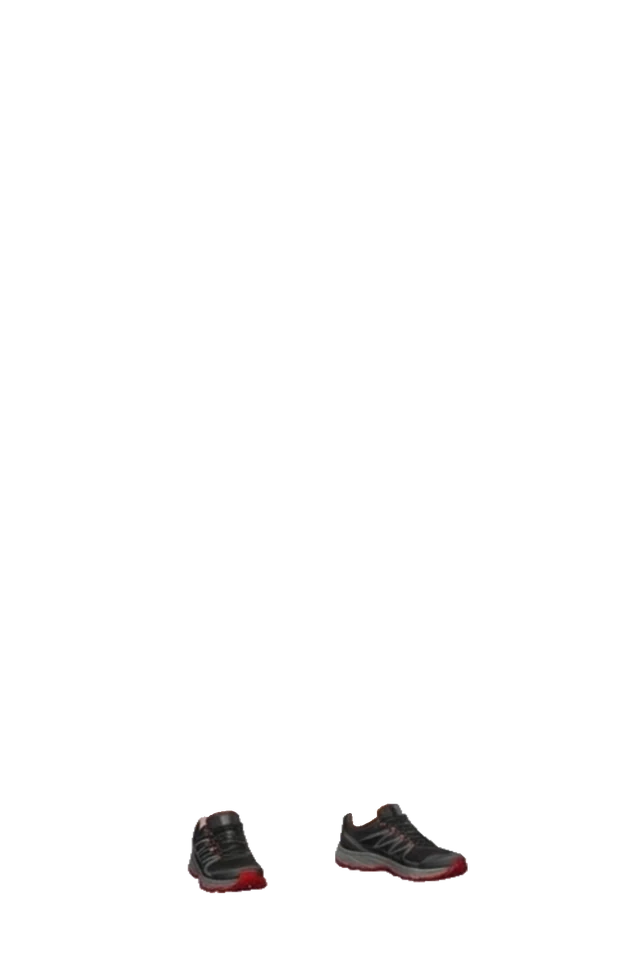
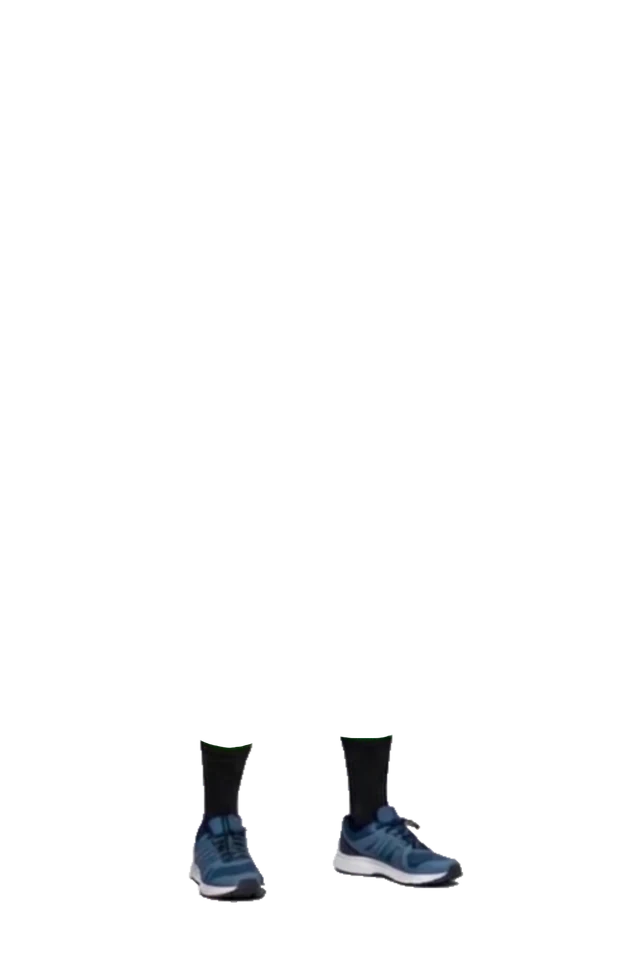
Equipment art: new shoes and shop pictures, backpacks for men and women
- The new shoe uploads replace lvl1_shoes_01, lvl2_shoes_01, lvl2_shoes_02 and lvl3_shoes_01;
  the starting shoes use lvl0_shoes_01 (lvl1_shoes_02 is prepared for a future item).
- Shop pictures from assets/ui/thumbnails for the starting, trail and light shoes, poles,
  backpacks and gels & bars.
- {sex} in the equipment table's thumbnail and avatar_layer picks the men or women file (the men
  file while there is no women one): level 1 and 2 backpacks now follow the runner's body.

Claude-Session: https://claude.ai/code/session_016f94ymQfSfnRFVe9Tr5tgS

Changed region(s): [[0.5, 0.75, 0.75, 0.9375], [0.2812, 0.75, 0.4375, 0.9375]]

diff --git a/supabase/functions/career-ops/index.js b/supabase/functions/career-ops/index.js
@@ -437,21 +437,21 @@ function applyFitnessDecay(state, now) {
 // raw:src/data/equipment.csv
 var equipment_default = `# Equipment (owner table, 3 November 2026). One row per item. Keep each id once and never rename it (saves use it).
 # type: shoes, pack, poles, nutrition (gels and bars together), or gel / bar (one kind). level: empty for none. price: coins (of one pack for gel/bar); empty = not for sale.
-# pack: units per pack (nutrition: that many gels and that many bars). thumbnail: file in assets/ui/thumbnails (thumb_*.png, 512 x 512) or assets/ui/equipment (empty = the game's own picture).
+# pack: units per pack (nutrition: that many gels and that many bars). {sex} in thumbnail or avatar_layer = men or women, by the runner (the men file when there is no women one). thumbnail: file in assets/ui/thumbnails (thumb_*.png, 512 x 512) or assets/ui/equipment (empty = the game's own picture).
 # avatar_layer: file in assets/runner/avatar shown on the runner, e.g. footwear/trail-shoes.webp (empty = none, or the drawn poles/backpack).
 # speed\u2026consistency: race-only attribute bonuses. flat, climb, descent, technical_penalty, wear: time multipliers (empty = 1; 0.9 = 10% less, 1.01 = 1% more).
 # effect_text: leave empty to have it written from the bonuses.
 # name_es, effect_text_es, description_es (and _fr, _it, _de): the texts in Spanish, French, Italian and German. Empty = English; an empty effect text is written from the bonuses.
 id,name,type,level,price,pack,thumbnail,avatar_layer,speed,endurance,climbing,technical,recovery,consistency,flat,climb,descent,technical_penalty,wear,effect_text,description,name_es,effect_text_es,description_es,name_fr,effect_text_fr,description_fr,name_it,effect_text_it,description_it,name_de,effect_text_de,description_de
-starter-shoes,Starter shoes,shoes,,0,,,footwear/starter-shoes.webp,,,,,,,,,,,,,Basic trail-running shoes. Starting equipment.,Zapatillas b\xE1sicas,,Zapatillas de trail b\xE1sicas. Equipo inicial.,Chaussures de base,,Chaussures de trail basiques. \xC9quipement de d\xE9part.,Scarpe base,,Scarpe da trail base. Attrezzatura iniziale.,Einsteigerschuhe,,Einfache Trailschuhe. Startausr\xFCstung.
-trail-shoes-basic,Trail shoes,shoes,1,35,,,footwear/trail-shoes-basic.webp,1,,,1,,,,,,,,,A small all-round upgrade on the starter shoes.,Zapatillas de trail,,Una peque\xF1a mejora general respecto a las b\xE1sicas.,Chaussures de trail,,Une petite am\xE9lioration polyvalente par rapport aux chaussures de base.,Scarpe da trail,,Un piccolo miglioramento generale rispetto alle scarpe base.,Trailschuhe,,Ein kleines Allround-Upgrade gegen\xFCber den Einsteigerschuhen.
+starter-shoes,Starter shoes,shoes,,0,,thumb_lvl0_shoes_01.png,footwear/starter-shoes.webp,,,,,,,,,,,,,Basic trail-running shoes. Starting equipment.,Zapatillas b\xE1sicas,,Zapatillas de trail b\xE1sicas. Equipo inicial.,Chaussures de base,,Chaussures de trail basiques. \xC9quipement de d\xE9part.,Scarpe base,,Scarpe da trail base. Attrezzatura iniziale.,Einsteigerschuhe,,Einfache Trailschuhe. Startausr\xFCstung.
+trail-shoes-basic,Trail shoes,shoes,1,35,,thumb_lvl1_shoes_01.png,footwear/trail-shoes-basic.webp,1,,,1,,,,,,,,,A small all-round upgrade on the starter shoes.,Zapatillas de trail,,Una peque\xF1a mejora general respecto a las b\xE1sicas.,Chaussures de trail,,Une petite am\xE9lioration polyvalente par rapport aux chaussures de base.,Scarpe da trail,,Un piccolo miglioramento generale rispetto alle scarpe base.,Trailschuhe,,Ein kleines Allround-Upgrade gegen\xFCber den Einsteigerschuhen.
 trail-shoes,Technical trail shoes,shoes,2,70,,,footwear/trail-shoes.webp,,,,4,,,,,,0.7,,,Grippy shoes for rocky and technical ground.,Zapatillas t\xE9cnicas,,Zapatillas con mucho agarre para terreno rocoso y t\xE9cnico.,Chaussures techniques,,Chaussures accrocheuses pour terrain rocheux et technique.,Scarpe tecniche,,Scarpe con molto grip per terreno roccioso e tecnico.,Technische Trailschuhe,,"Griffige Schuhe f\xFCr felsiges, technisches Gel\xE4nde."
-trail-shoes-light,Light trail shoes,shoes,2,70,,,footwear/trail-shoes-light.webp,3,,,,,,,,0.98,1.3,,,"Fast on flats and descents, with less grip on technical ground.",Zapatillas ligeras,,"R\xE1pidas en llano y en bajada, con menos agarre en terreno t\xE9cnico.",Chaussures l\xE9g\xE8res,,"Rapides sur le plat et en descente, moins d'adh\xE9rence en terrain technique.",Scarpe leggere,,"Veloci in pianura e in discesa, con meno grip sul terreno tecnico.",Leichte Trailschuhe,,"Schnell auf flachen St\xFCcken und bergab, mit weniger Grip im technischen Gel\xE4nde."
-poles,Poles,poles,1,25,,lvl1_poles_01.webp,accessories/lvl1_poles_01.webp,,,2,,,,1.01,,,,,,Folding poles that help on climbs.,Bastones,,Bastones plegables que ayudan en las subidas.,B\xE2tons,,B\xE2tons pliables qui aident dans les mont\xE9es.,Bastoncini,,Bastoncini pieghevoli che aiutano in salita.,St\xF6cke,,"Faltbare St\xF6cke, die am Anstieg helfen."
+trail-shoes-light,Light trail shoes,shoes,2,70,,thumb_lvl2_shoes_02.png,footwear/trail-shoes-light.webp,3,,,,,,,,0.98,1.3,,,"Fast on flats and descents, with less grip on technical ground.",Zapatillas ligeras,,"R\xE1pidas en llano y en bajada, con menos agarre en terreno t\xE9cnico.",Chaussures l\xE9g\xE8res,,"Rapides sur le plat et en descente, moins d'adh\xE9rence en terrain technique.",Scarpe leggere,,"Veloci in pianura e in discesa, con meno grip sul terreno tecnico.",Leichte Trailschuhe,,"Schnell auf flachen St\xFCcken und bergab, mit weniger Grip im technischen Gel\xE4nde."
+poles,Poles,poles,1,25,,thumb_lvl1_poles_01.png,accessories/lvl1_poles_01.webp,,,2,,,,1.01,,,,,,Folding poles that help on climbs.,Bastones,,Bastones plegables que ayudan en las subidas.,B\xE2tons,,B\xE2tons pliables qui aident dans les mont\xE9es.,Bastoncini,,Bastoncini pieghevoli che aiutano in salita.,St\xF6cke,,"Faltbare St\xF6cke, die am Anstieg helfen."
 poles-2,Poles,poles,2,50,,,,,1,3,,,,1.01,,,,,,Light carbon poles.,Bastones,,Bastones ligeros de carbono.,B\xE2tons,,B\xE2tons l\xE9gers en carbone.,Bastoncini,,Bastoncini leggeri in carbonio.,St\xF6cke,,Leichte Carbonst\xF6cke.
-hydration-backpack,Hydration backpack,pack,1,30,,lvl1_back_01.webp,accessories/lvl1_back_01.webp,,1,,,,,,,,,0.9,,Carries water and food for long races.,Mochila de hidrataci\xF3n,,Lleva agua y comida para carreras largas.,Sac d'hydratation,,Transporte eau et nourriture pour les courses longues.,Zaino idratazione,,Porta acqua e cibo per le gare lunghe.,Trinkrucksack,,Tr\xE4gt Wasser und Essen f\xFCr lange Rennen.
-hydration-backpack-2,Hydration backpack,pack,2,90,,lvl3_back_01.webp,accessories/lvl3_back_01.webp,,2,,,,,,,,,0.85,,"A larger, better-fitting race vest.",Mochila de hidrataci\xF3n,,Un chaleco de carrera m\xE1s grande y que se ajusta mejor.,Sac d'hydratation,,Un gilet de course plus grand et mieux ajust\xE9.,Zaino idratazione,,Un gilet da gara pi\xF9 grande e pi\xF9 aderente.,Trinkrucksack,,"Eine gr\xF6\xDFere, besser sitzende Laufweste."
-gels-and-bars,Gels & bars,nutrition,,5,3,lvl1_gels_01.webp,,,,,,,,,,,,,"Gel: 1.5% faster; cereal bar: 1.5% less fatigue, for the whole race. A race uses one of each.",3 energy gels and 3 cereal bars. One of each is enough for a whole race.,Geles y barritas,"Gel: 1,5 % m\xE1s r\xE1pido; barrita: 1,5 % menos fatiga, toda la carrera. Cada carrera usa uno de cada.",3 geles energ\xE9ticos y 3 barritas de cereales. Con uno de cada basta para toda una carrera.,Gels et barres,"Gel : 1,5 % plus rapide ; barre : 1,5 % de fatigue en moins, toute la course. Une course en utilise un de chaque.",3 gels \xE9nerg\xE9tiques et 3 barres de c\xE9r\xE9ales. Un de chaque suffit pour toute une course.,Gel e barrette,"Gel: 1,5% pi\xF9 veloce; barretta: 1,5% di fatica in meno, per tutta la gara. Ogni gara ne usa uno di ciascuno.",3 gel energetici e 3 barrette ai cereali. Uno di ciascuno basta per tutta la gara.,Gels & Riegel,"Gel: 1,5 % schneller; Riegel: 1,5 % weniger Erm\xFCdung, im ganzen Rennen. Ein Rennen verbraucht je eins.",3 Energiegels und 3 M\xFCsliriegel. Je eins reicht f\xFCr ein ganzes Rennen.
+hydration-backpack,Hydration backpack,pack,1,30,,thumb_lvl1_{sex}_back_01.png,accessories/lvl1_{sex}_back_01.webp,,1,,,,,,,,,0.9,,Carries water and food for long races.,Mochila de hidrataci\xF3n,,Lleva agua y comida para carreras largas.,Sac d'hydratation,,Transporte eau et nourriture pour les courses longues.,Zaino idratazione,,Porta acqua e cibo per le gare lunghe.,Trinkrucksack,,Tr\xE4gt Wasser und Essen f\xFCr lange Rennen.
+hydration-backpack-2,Hydration backpack,pack,2,90,,thumb_lvl2_back_01.png,accessories/lvl2_{sex}_back_01.webp,,2,,,,,,,,,0.85,,"A larger, better-fitting race vest.",Mochila de hidrataci\xF3n,,Un chaleco de carrera m\xE1s grande y que se ajusta mejor.,Sac d'hydratation,,Un gilet de course plus grand et mieux ajust\xE9.,Zaino idratazione,,Un gilet da gara pi\xF9 grande e pi\xF9 aderente.,Trinkrucksack,,"Eine gr\xF6\xDFere, besser sitzende Laufweste."
+gels-and-bars,Gels & bars,nutrition,,5,3,thumb_lvl1_gels_01.png,,,,,,,,,,,,,"Gel: 1.5% faster; cereal bar: 1.5% less fatigue, for the whole race. A race uses one of each.",3 energy gels and 3 cereal bars. One of each is enough for a whole race.,Geles y barritas,"Gel: 1,5 % m\xE1s r\xE1pido; barrita: 1,5 % menos fatiga, toda la carrera. Cada carrera usa uno de cada.",3 geles energ\xE9ticos y 3 barritas de cereales. Con uno de cada basta para toda una carrera.,Gels et barres,"Gel : 1,5 % plus rapide ; barre : 1,5 % de fatigue en moins, toute la course. Une course en utilise un de chaque.",3 gels \xE9nerg\xE9tiques et 3 barres de c\xE9r\xE9ales. Un de chaque suffit pour toute une course.,Gel e barrette,"Gel: 1,5% pi\xF9 veloce; barretta: 1,5% di fatica in meno, per tutta la gara. Ogni gara ne usa uno di ciascuno.",3 gel energetici e 3 barrette ai cereali. Uno di ciascuno basta per tutta la gara.,Gels & Riegel,"Gel: 1,5 % schneller; Riegel: 1,5 % weniger Erm\xFCdung, im ganzen Rennen. Ein Rennen verbraucht je eins.",3 Energiegels und 3 M\xFCsliriegel. Je eins reicht f\xFCr ein ganzes Rennen.
 `;
 
 // src/domain/equipment/items.ts

diff --git a/src/components/avatar/Avatar.tsx b/src/components/avatar/Avatar.tsx
@@ -125,9 +125,9 @@ function Vest({ id }: { id: string }) {
 }
 
 /** The runner layer of an equipped item, from the equipment table (avatar_layer), if it has art. */
-function layerOf(id: string): string | undefined {
+function layerOf(id: string, sex: Sex): string | undefined {
   const file = getEquipmentItem(id)?.avatarLayer
-  return file ? avatarFile(file) : undefined
+  return file ? avatarFile(file, sex) : undefined
 }
 
 function EquipmentLayer({ id, href }: { id: string; href: string }) {
@@ -148,7 +148,7 @@ export function Avatar({ sex, appearance, equipment = [], label, crop = 'full', 
     // The chosen head is drawn over the body's basic head, in the body's skin tone.
     { id: 'head', href: headArt(sex, appearance.hair, Number(appearance.skin.slice('tone-'.length))) },
     // Shoes: the art the equipment table names for each item (avatar_layer).
-    ...bySlot('shoes').map((id) => ({ id, href: layerOf(id) })),
+    ...bySlot('shoes').map((id) => ({ id, href: layerOf(id, sex) })),
     ...(shirt ? [{ id: shirt.id, href: art(`clothing/${shirt.file}`) }] : []),
   ]
   const zoomed = focus === 'face' && crop === 'full'
@@ -177,14 +177,14 @@ export function Avatar({ sex, appearance, equipment = [], label, crop = 'full', 
       <g className={styles.zoom} style={{ transform: zoomed ? FACE_TRANSFORM : 'none' }} filter={`url(#${glowId})`}>
         {/* Poles and backpacks: the table's art when it names one, otherwise the drawn ones. */}
         {bySlot('poles').map((id) =>
-          layerOf(id) ? <EquipmentLayer key={id} id={id} href={layerOf(id)!} /> : POLE_COLORS[id] && <Poles key={id} id={id} />,
+          layerOf(id, sex) ? <EquipmentLayer key={id} id={id} href={layerOf(id, sex)!} /> : POLE_COLORS[id] && <Poles key={id} id={id} />,
         )}
         {layers.map(
           (layer) =>
             layer.href && <image key={layer.id} href={layer.href} width="640" height="960" data-layer={layer.id} />,
         )}
         {bySlot('pack').map((id) =>
-          layerOf(id) ? <EquipmentLayer key={id} id={id} href={layerOf(id)!} /> : PACK_COLORS[id] && <Vest key={id} id={id} />,
+          layerOf(id, sex) ? <EquipmentLayer key={id} id={id} href={layerOf(id, sex)!} /> : PACK_COLORS[id] && <Vest key={id} id={id} />,
         )}
       </g>
     </svg>

diff --git a/src/data/tables.test.ts b/src/data/tables.test.ts
@@ -1,5 +1,5 @@
 import { describe, expect, it, vi } from 'vitest'
-import { avatarFile } from '../components/avatar/avatarArt'
+import { avatarFile, filesForSex } from '../components/avatar/avatarArt'
 import { parseLevels } from '../domain/athlete/levels'
 import { parseRaceField } from '../domain/races/raceField'
 import { parseRankingTable } from '../domain/ranking/ranking'
@@ -20,8 +20,8 @@ const { default: achievementsCsv } = await import('./achievements.csv?raw')
 const { default: rankingCsv } = await import('./ranking_points.csv?raw')
 
 const THUMBNAILS = import.meta.glob('/assets/ui/{thumbnails,equipment}/*.{webp,png,jpg,jpeg}')
-const hasThumbnail = (file: string) =>
-  `/assets/ui/thumbnails/${file}` in THUMBNAILS || `/assets/ui/equipment/${file}` in THUMBNAILS
+const hasThumbnail = (file: string, sex: 'male' | 'female') =>
+  filesForSex(file, sex).some((name) => `/assets/ui/thumbnails/${name}` in THUMBNAILS || `/assets/ui/equipment/${name}` in THUMBNAILS)
 
 /**
  * The owner's tables (src/data/*.csv, 3 November 2026) are free to change: these checks only make
@@ -48,8 +48,10 @@ describe("owner's tables", () => {
   it('equipment.csv is a valid equipment table whose files exist, with the starting shoes and gels and bars for sale', () => {
     const items = parseEquipment(equipmentCsv)
     for (const item of items) {
-      if (item.avatarLayer) expect(avatarFile(item.avatarLayer), `${item.id}: avatar_layer ${item.avatarLayer}`).toBeDefined()
-      if (item.thumbnail) expect(hasThumbnail(item.thumbnail), `${item.id}: thumbnail ${item.thumbnail}`).toBe(true)
+      for (const sex of ['male', 'female'] as const) {
+        if (item.avatarLayer) expect(avatarFile(item.avatarLayer, sex), `${item.id}: avatar_layer ${item.avatarLayer} (${sex})`).toBeDefined()
+        if (item.thumbnail) expect(hasThumbnail(item.thumbnail, sex), `${item.id}: thumbnail ${item.thumbnail} (${sex})`).toBe(true)
+      }
       if (item.price !== null) expect(item.price, item.id).toBeGreaterThanOrEqual(0)
     }
     // The starting shoes (every career owns them), and something that refills gels and bars.

diff --git a/src/features/equipment/EquipmentScreen.tsx b/src/features/equipment/EquipmentScreen.tsx
@@ -3,11 +3,12 @@ import { useEffect, useRef, useState } from 'react'
 import { Link, useSearchParams } from 'react-router'
 import { useCareer } from '../../app/game/gameContext'
 import { Avatar } from '../../components/avatar/Avatar'
+import { filesForSex } from '../../components/avatar/avatarArt'
 import { Coins } from '../../components/Coins'
 import button from '../../components/Button.module.css'
 import { Screen, ScrollPanel } from '../../components/Screen'
 import { Chips, Tabs } from '../../components/Tabs'
-import type { AttributeId } from '../../domain/athlete/athlete'
+import type { AttributeId, Sex } from '../../domain/athlete/athlete'
 import { useI18n, type Locale, type MessageKey, type Translate } from '../../i18n/i18n'
 import {
   EQUIPMENT_ITEMS,
@@ -121,15 +122,19 @@ const THUMBNAILS = import.meta.glob<string>('/assets/ui/{thumbnails,equipment}/*
   import: 'default',
 })
 
-function thumbnailUrl(file: string): string | undefined {
-  return THUMBNAILS[`/assets/ui/thumbnails/${file}`] ?? THUMBNAILS[`/assets/ui/equipment/${file}`]
+function thumbnailUrl(file: string, sex: Sex): string | undefined {
+  for (const candidate of filesForSex(file, sex)) {
+    const url = THUMBNAILS[`/assets/ui/thumbnails/${candidate}`] ?? THUMBNAILS[`/assets/ui/equipment/${candidate}`]
+    if (url) return url
+  }
+  return undefined
 }
 
 /** An item's picture: its thumbnail, the shoes on the feet, or the slot icon (also used on race day). */
 export function ItemArt({ item }: { item: EquipmentItem }) {
   const { state } = useCareer()
   const { athlete } = state
-  const thumbnail = item.thumbnail && thumbnailUrl(item.thumbnail)
+  const thumbnail = item.thumbnail && thumbnailUrl(item.thumbnail, athlete.sex)
   if (thumbnail) return <img className={styles.thumbnail} src={thumbnail} alt="" />
   if (item.slot === 'shoes') {
     return (

diff --git a/src/components/avatar/avatarArt.test.ts b/src/components/avatar/avatarArt.test.ts
@@ -1,7 +1,7 @@
 import { describe, expect, it, vi } from 'vitest'
 import { HEAD_FILES, HEADS } from '../../domain/athlete/heads'
 import { EQUIPMENT_ITEMS } from '../../domain/equipment/items'
-import { art, headArt } from './avatarArt'
+import { art, avatarFile, filesForSex, headArt } from './avatarArt'
 
 /** The prepared head files on disk. */
 const HEAD_ASSETS = Object.keys(import.meta.glob('/assets/runner/avatar/heads/*.webp'))
@@ -41,5 +41,22 @@ describe('avatar art', () => {
   it('has no art for the basic head or a missing tone', () => {
     expect(headArt('female', 'natural', 2)).toBeUndefined()
     expect(headArt('female', 'head-l2-03', 2)).toBeUndefined()
+  })
+})
+
+describe('Equipment art by sex (owner request, 5 November 2026)', () => {
+  it('{sex} names the runner’s file, with the men file as the fallback', () => {
+    expect(filesForSex('accessories/lvl1_{sex}_back_01.webp', 'female')).toEqual([
+      'accessories/lvl1_women_back_01.webp',
+      'accessories/lvl1_men_back_01.webp',
+    ])
+    expect(filesForSex('accessories/lvl1_{sex}_back_01.webp', 'male')).toEqual(['accessories/lvl1_men_back_01.webp'])
+    expect(filesForSex('footwear/trail-shoes.webp', 'female')).toEqual(['footwear/trail-shoes.webp'])
+  })
+
+  it('uses the women backpack for women and falls back to the men one while there is none', () => {
+    expect(avatarFile('accessories/lvl1_{sex}_back_01.webp', 'female')).toContain('lvl1_women_back_01')
+    expect(avatarFile('accessories/lvl1_{sex}_back_01.webp', 'male')).toContain('lvl1_men_back_01')
+    expect(avatarFile('accessories/lvl2_{sex}_back_01.webp', 'female')).toContain('lvl2_men_back_01')
   })
 })

diff --git a/src/components/avatar/avatarArt.ts b/src/components/avatar/avatarArt.ts
@@ -23,7 +23,23 @@ export function headArt(sex: Sex, hair: string, tone: number): string | undefine
   return file === undefined ? undefined : art(`heads/${file}`)
 }
 
+/**
+ * The files an equipment table entry names for a runner (owner request, 5 November 2026: backpacks
+ * drawn for men and for women): `{sex}` stands for `men` or `women`, and the men file is the
+ * fallback while there is no women one. A name without `{sex}` is the same for everyone.
+ */
+export function filesForSex(file: string, sex: Sex): string[] {
+  if (!file.includes('{sex}')) return [file]
+  const own = file.replaceAll('{sex}', sex === 'female' ? 'women' : 'men')
+  const men = file.replaceAll('{sex}', 'men')
+  return own === men ? [men] : [own, men]
+}
+
 /** The bundled URL of a file in assets/runner/avatar named by the equipment table, e.g. `footwear/trail-shoes.webp`. */
-export function avatarFile(file: string): string | undefined {
-  return ART[`/assets/runner/avatar/${file}`]
+export function avatarFile(file: string, sex: Sex = 'male'): string | undefined {
+  for (const candidate of filesForSex(file, sex)) {
+    const url = ART[`/assets/runner/avatar/${candidate}`]
+    if (url) return url
+  }
+  return undefined
 }

diff --git a/scripts/prepare_avatar_art.py b/scripts/prepare_avatar_art.py
@@ -49,10 +49,12 @@ QUALITY = 88
 BODY_NAME = re.compile(r"^(men|women)_body_01_tone(\d)\.png$")
 HEAD_NAME = re.compile(r"^lvl(\d+)_(men|women)_head_(\d{2})_tone(\d)\.png$")
 SHIRT_NAME = re.compile(r"^lvl(\d+)_(men|women)_shirt_(\d{2})\.png$")
-# Shoe art by equipment item id (owner decision, 31 October 2026). lvl3_shoes_01 has no shop item
-# yet; it is prepared so it is ready when one is added.
+# Shoe art by equipment item id (owner decision, 31 October 2026; new art 5 November 2026: the
+# starting shoes are lvl0_shoes_01). lvl1_shoes_02 and lvl3_shoes_01 have no shop item yet; they
+# are prepared so they are ready when one is added.
 FOOTWEAR = {
-    "starter-shoes": "footwear/starter_shoes_01.png",
+    "starter-shoes": "footwear/lvl0_shoes_01.png",
+    "lvl1-shoes-02": "footwear/lvl1_shoes_02.png",
     "trail-shoes-basic": "footwear/lvl1_shoes_01.png",
     "trail-shoes": "footwear/lvl2_shoes_01.png",
     "trail-shoes-light": "footwear/lvl2_shoes_02.png",

diff --git a/assets/ui/thumbnails/README.md b/assets/ui/thumbnails/README.md
@@ -4,7 +4,8 @@ One picture per equipment item, shown on its shop and equipment cards (owner req
 
 - **Size:** 512 × 512 px, square. **Format:** PNG with a transparent background, ideally under 300 KB.
 - **Framing:** the item centred with a 5–10 % margin on each side, no shadow or background (the card has its own).
-- **Name:** `thumb_` + the name of the item's art, e.g. `thumb_lvl2_back_01.png`.
+- **Name:** `thumb_` + the name of the item's art, e.g. `thumb_lvl2_back_01.png`. For a picture per body:
+  `thumb_lvl1_men_back_01.png` and `thumb_lvl1_women_back_01.png`, named `thumb_lvl1_{sex}_back_01.png` in the table.
 
 Then put the file name in the `thumbnail` column of `src/data/equipment.csv` (after uploading: the
 checks fail if the table names a file that does not exist). A picture here is used before the one cut

diff --git a/assets/runner/accesories/README.md b/assets/runner/accesories/README.md
@@ -9,6 +9,10 @@ Backpacks, poles, gels and bars. Each PNG on the same 1024 × 1536 transparent c
 Then name them in `src/data/equipment.csv`: `avatar_layer` = `accessories/{name}.webp` (for things
 worn: backpacks, poles) and `thumbnail` = `{name}.webp` (any item, gels and bars included).
 
+Backpacks drawn for each body (owner request, 5 November 2026): `lvl{L}_men_back_{NN}.png` and
+`lvl{L}_women_back_{NN}.png`. The table names them once with `{sex}`, e.g. `accessories/lvl1_{sex}_back_01.webp`
+(and `thumb_lvl1_{sex}_back_01.png`); while there is no women file the men one is used.
+
 A picture of any other size (as `lvl1_gels_01.png`) is not worn on the runner: it only becomes the
 shop picture.
 
